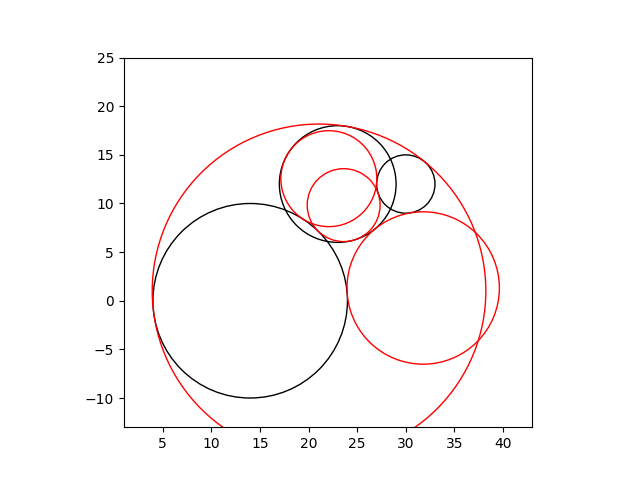
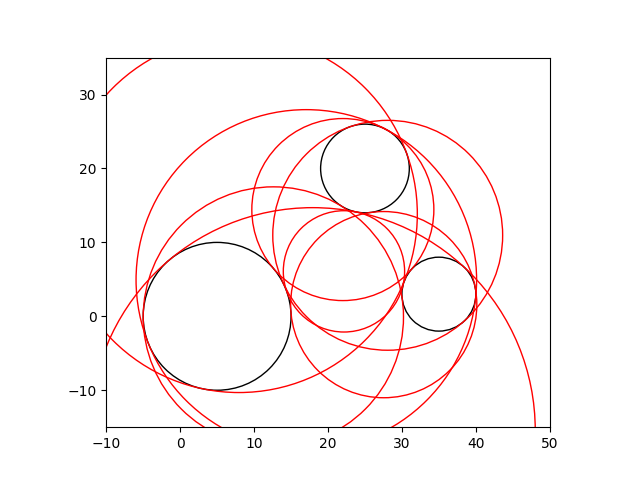
added license

diff --git a/main.py b/main.py
@@ -160,13 +160,13 @@ def solve2(x1, y1, r1, x2, y2, r2, x3, y3, r3, s1, s2, s3):
     return xs, ys, rs
 
 if __name__ == "__main__":
-    x1 = 30
+    x1 = 35
     y1 = 3
-    r1 = 3
-    x2 = 23
-    y2 = 12
+    r1 = 5
+    x2 = 25
+    y2 = 20
     r2 = 6
-    x3 = 14
+    x3 = 5
     y3 = 0
     r3 = 10
 
@@ -200,7 +200,7 @@ if __name__ == "__main__":
             aspect=1)
 
     # store the cicle coordinates in a list
-    coordinates = [(x1, y2), (x2, y2), (x3, y3)]
+    coordinates = [(x1, y1), (x2, y2), (x3, y3)]
     scales = [r1, r2, r3]
 
     for i in range(3):
